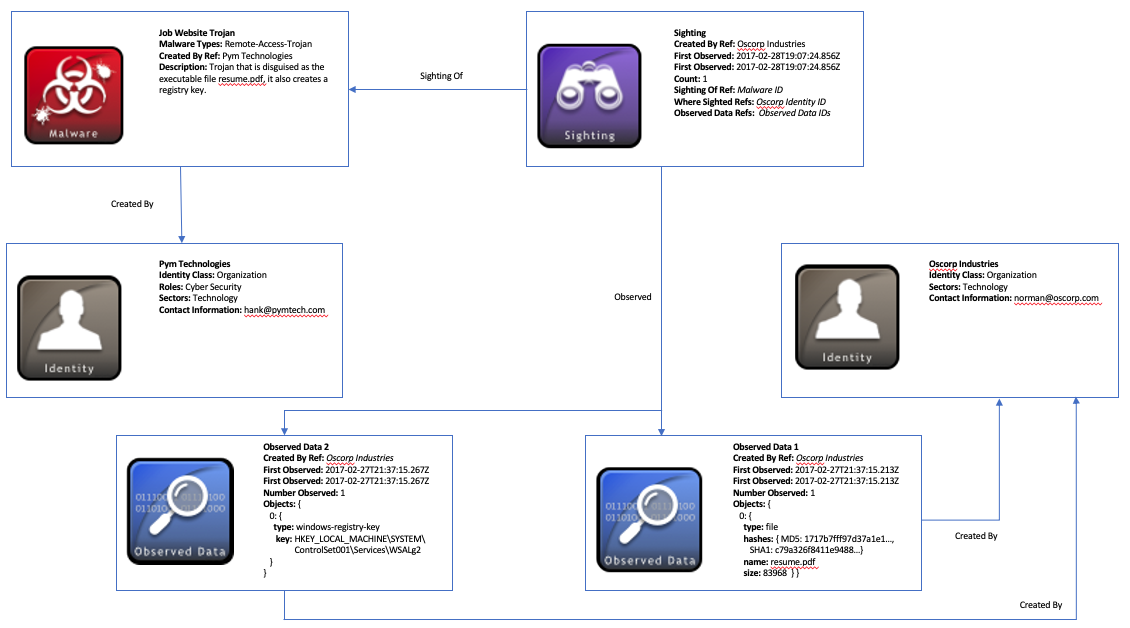
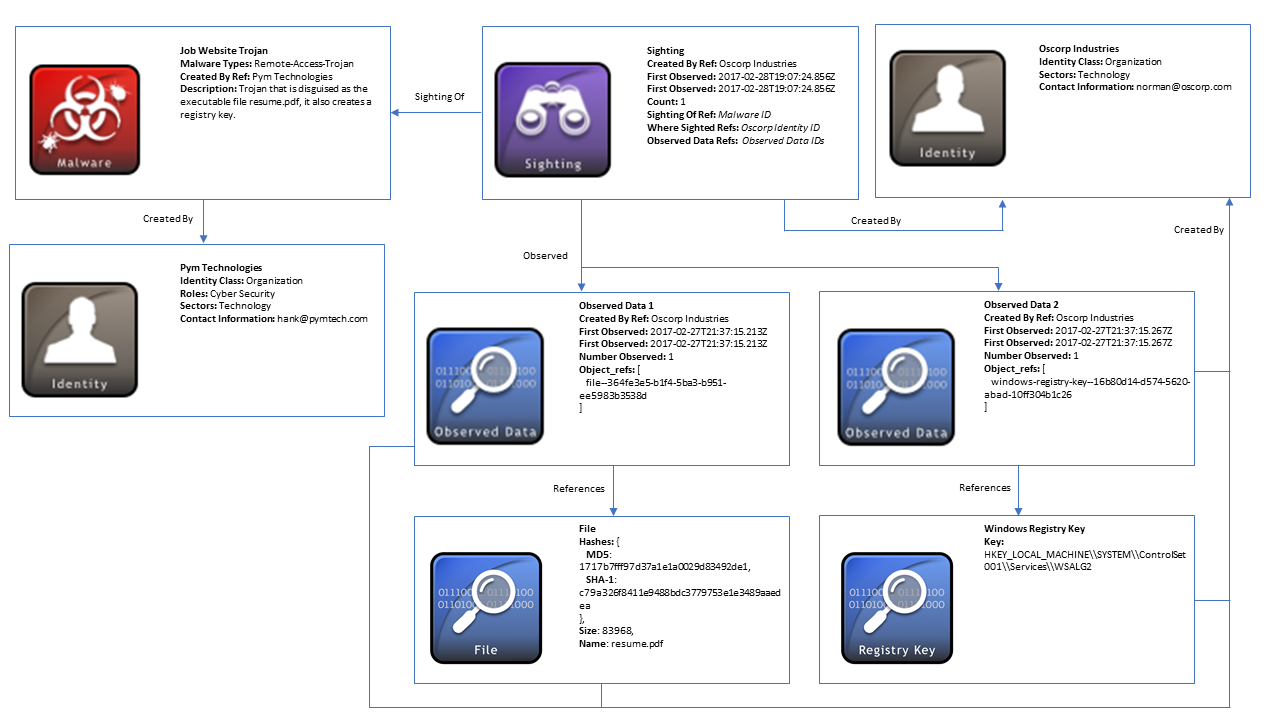
Fixes #64

diff --git a/examples/producer_python/sighting-of-observed-data-producer.py b/examples/producer_python/sighting-of-observed-data-producer.py
@@ -1,9 +1,9 @@
-from stix2.v21 import (Identity, Malware, ObservedData, Sighting, Bundle)
+from stix2.v21 import (File, Identity, Malware, ObservedData, Sighting, WindowsRegistryKey, Bundle)
 
 identityOscorp = Identity(
     id="identity--987eeee1-413a-44ac-96cc-0a8acdcc2f2c",
-    created="2017-04-14T13:07:49.812Z",
-    modified="2017-04-14T13:07:49.812Z",
+    created="2017-01-14T13:07:49.812Z",
+    modified="2017-01-14T13:07:49.812Z",
     name="Oscorp Industries",
     identity_class="organization",
     contact_information="norman@oscorp.com",
@@ -14,8 +14,8 @@ identityOscorp = Identity(
 
 identityPym = Identity(
     id="identity--7865b6d2-a4af-45c5-b582-afe5ec376c33",
-    created="2017-04-14T13:07:49.812Z",
-    modified="2017-04-14T13:07:49.812Z",
+    created="2013-04-14T13:07:49.812Z",
+    modified="2013-04-14T13:07:49.812Z",
     name="Pym Technologies",
     identity_class="organization",
     contact_information="hank@pymtech.com",
@@ -28,13 +28,24 @@ malware = Malware(
     id="malware--ae560258-a5cb-4be8-8f05-013d6712295f",
     created="2014-02-20T09:16:08.989Z",
     modified="2014-02-20T09:16:08.989Z",
-    created_by_ref="identity--7865b6d2-a4af-45c5-b582-afe5ec376c33",
+    created_by_ref=identityPym.id,
     name="Online Job Site Trojan",
     description="Trojan that is disguised as the executable file resume.pdf., it also creates a registry key.",
     malware_types=["remote-access-trojan"], 
     spec_version="2.1",
     type="malware",
     is_family="false"
+)
+
+fileMalicious = File(
+    hashes={
+        "MD5": "1717b7fff97d37a1e1a0029d83492de1",
+        "SHA-1": "c79a326f8411e9488bdc3779753e1e3489aaedea"
+    },
+    name="resume.pdf",
+    size=83968,
+    id="file--364fe3e5-b1f4-5ba3-b951-ee5983b3538d",
+    spec_version="2.1"
 )
 
 observedDataFile = ObservedData(
@@ -44,20 +55,18 @@ observedDataFile = ObservedData(
     first_observed="2017-02-27T21:37:11.213Z",
     last_observed="2017-02-27T21:37:11.213Z",
     number_observed=1,
-    created_by_ref="identity--7865b6d2-a4af-45c5-b582-afe5ec376c33",
-    objects={
-        "0": {
-            "type": "file",
-            "hashes": {
-                "MD5": "1717b7fff97d37a1e1a0029d83492de1",
-                "SHA-1": "c79a326f8411e9488bdc3779753e1e3489aaedea"
-            },
-            "name": "resume.pdf",
-            "size": 83968
-        }
-    }, 
+    created_by_ref=identityOscorp.id,
+    object_refs=[
+        "file--364fe3e5-b1f4-5ba3-b951-ee5983b3538d"
+    ], 
     spec_version="2.1",
     type="observed-data"
+)
+
+winRegKey = WindowsRegistryKey(
+    key="HKEY_LOCAL_MACHINE\\SYSTEM\\ControlSet001\\Services\\WSALG2",
+    spec_version="2.1",
+    id="windows-registry-key--16b80d14-d574-5620-abad-10ff304b1c26"
 )
 
 observedDataRegKey = ObservedData(
@@ -67,20 +76,17 @@ observedDataRegKey = ObservedData(
     first_observed="2017-02-27T21:37:11.213Z",
     last_observed="2017-02-27T21:37:11.213Z",
     number_observed=1,
-    created_by_ref="identity--7865b6d2-a4af-45c5-b582-afe5ec376c33",
-    objects={
-        "0": {
-            "type": "windows-registry-key",
-            "key": "HKEY_LOCAL_MACHINE\\SYSTEM\\ControlSet001\\Services\\WSALG2"
-        }
-    }, 
+    created_by_ref=identityOscorp.id,
+    object_refs=[
+        "windows-registry-key--16b80d14-d574-5620-abad-10ff304b1c26"
+    ], 
     spec_version="2.1",
     type="observed-data"
 )
 
 sighting = Sighting(
     id="sighting--779c4ae8-e134-4180-baa4-03141095d971",
-    created_by_ref="identity--987eeee1-413a-44ac-96cc-0a8acdcc2f2c",
+    created_by_ref=identityOscorp.id,
     created="2017-02-28T19:37:11.213Z",
     modified="2017-02-28T19:37:11.213Z",
     first_seen="2017-02-28T19:07:24.856Z",

diff --git a/examples/consumer_python/sighting-of-observed-data-consumer.py b/examples/consumer_python/sighting-of-observed-data-consumer.py
@@ -49,7 +49,7 @@ for obj in bundle.objects:
         print("First Observed: " + str(obj.first_observed))
         print("Last Observed: " + str(obj.last_observed))
         print("Number Observed: " + str(obj.number_observed))
-        print("Objects: " + str(obj.objects))
+        print("Object Refs: " + str(obj.object_refs))
 
     elif obj == observedDataRegKey:
         print("------------------")
@@ -62,7 +62,7 @@ for obj in bundle.objects:
         print("First Observed: " + str(obj.first_observed))
         print("Last Observed: " + str(obj.last_observed))
         print("Number Observed: " + str(obj.number_observed))
-        print("Objects: " + str(obj.objects))
+        print("Object Refs: " + str(obj.object_refs))
 
     elif obj == sighting:
         print("------------------")
@@ -79,3 +79,21 @@ for obj in bundle.objects:
         print("Sighting of Ref: " + obj.sighting_of_ref)
         print("Observed Data Ref: " + str(obj.observed_data_refs))
         print("Where Sighted Refs: " + str(obj.where_sighted_refs))
+    
+    elif obj == fileMalicious:
+        print("------------------")
+        print("== FILE ==")
+        print("------------------")
+        print("ID: " + obj.id)
+        print("Type: " + obj.type)
+        print("Hashes: " + str(obj.hashes))
+        print ("Name: " + obj.name)
+        print ("Size: " + str(obj.size))
+    
+    elif obj == winRegKey:
+        print("------------------")
+        print("== WINDOWS REGISTRY KEY ==")
+        print("------------------")
+        print("ID: " + obj.id)
+        print("Type: " + obj.type)
+        print("Key: " + obj.key)

diff --git a/examples/sighting-of-observed-data.md b/examples/sighting-of-observed-data.md
@@ -16,21 +16,21 @@ This scenario consists of two cyber threat companies, Pym and Oscorp, who share 
 
 In this example, there are two [Identity](https://docs.oasis-open.org/cti/stix/v2.1/cs01/stix-v2.1-cs01.html#_wh296fiwpklp) STIX Domain Objects (SDOs) used for the two companies: Pym and Oscorp. The Identity objects document relevant information about the two organizations, such as what sector they are in and relevant contact information. Both organizations are producers and consumers of STIX intelligence, so their <span class="sdo">**id**</span>’s can be referenced within objects using the <span class="sdo">**created\_by\_ref**</span> property to indicate they are the originators of the STIX objects they generate. It is worth noting that Identity SDO’s can also be used to represent individuals, attack targets, government agencies, and groups, to name a few.
 
-The Identity objects at the very minimum need a couple of required properties: <span class="sdo">**name**</span> and <span class="sdo">**identity\_class**</span>. The <span class="sdo">**identity\_class**</span> field is important for categorizing the type of identity Pym and Oscorp represent, which is <span class="values">organization</span> in this case. This value comes from the [identity class open vocabulary](https://docs.oasis-open.org/cti/stix/v2.1/cs01/stix-v2.1-cs01.html#_be1dktvcmyu), which contains suggested values for labeling Identities.
+The Identity objects at the very minimum need a value for the required <span class="sdo">**name**</span> property. In this example, the <span class="sdo">**identity\_class**</span> property is also used, and it is important for categorizing the type of identity Pym and Oscorp represen: <span class="values">organization</span>, in this case. This value comes from the [identity class open vocabulary](https://docs.oasis-open.org/cti/stix/v2.1/cs01/stix-v2.1-cs01.html#_be1dktvcmyu), which contains suggested values for labeling Identities.
 
 Pym Technologies first created a Malware SDO to represent details about the type of malware in this scenario. This specific malware type is labeled as a <span class="values">remote-access-trojan</span>, and is an executable disguised as a pdf file that creates multiple registry keys. Pym then shared this intelligence with Oscorp.
 
-Oscorp Industries, which now has this Malware object, believes it has seen this malware on its own networks and created a Sighting object to represent this. The Sighting SRO is a special type of STIX relationship that contains properties about the object seen such as the <span class="sdo">**id**</span> of the Malware SDO (with <span class="sdo">**sighting\_of\_ref**</span>), a <span class="sdo">**count**</span> property that indicates the number of times this malware was seen, as well as timestamps for when it was first and last seen. In addition, a listing of Observed-data <span class="sdo">**id**</span>’s is included to communicate any necessary information that may support the sighting of this malware.
+Oscorp Industries, which now has this Malware object, believes it has seen this malware on its own networks and created a Sighting object to represent this. The Sighting SRO is a special type of STIX relationship that contains properties about the object seen such as the <span class="sdo">**id**</span> of the Malware SDO (with <span class="sdo">**sighting\_of\_ref**</span>), a <span class="sdo">**count**</span> property that indicates the number of times this malware was seen, as well as timestamps for when it was first and last seen. In addition, a listing of Observed-Data <span class="sdo">**id**</span>s is included to communicate any necessary information that may support the sighting of this malware.
 
-[Observed Data](https://docs.oasis-open.org/cti/stix/v2.1/cs01/stix-v2.1-cs01.html#_p49j1fwoxldc) SDO’s contain cyber observable information that was captured on systems and networks such as IP addresses, files, and URL’s. In this scenario, Oscorp observed both [file](https://docs.oasis-open.org/cti/stix/v2.1/cs01/stix-v2.1-cs01.html#_99bl2dibcztv) and [registry key](https://docs.oasis-open.org/cti/stix/v2.1/cs01/stix-v2.1-cs01.html#_luvw8wjlfo3y) information. They can model this information within 2 different Observed-data objects. Although you are able to include multiple cyber observable objects within one Observed-data instance, they must be related to each other. In this case, the file and registry data are not directly related so they are contained in separate Observed-data. You can read more about STIX [objects](https://docs.oasis-open.org/cti/stix/v2.1/cs01/stix-v2.1-cs01.html#_nrhq5e9nylke) and cyber observable [objects](https://docs.oasis-open.org/cti/stix/v2.1/cs01/stix-v2.1-cs01.html#_mlbmudhl16lr) and  covered in parts 4 and 6 of the STIX 2.1 specification respectively.
+[Observed Data](https://docs.oasis-open.org/cti/stix/v2.1/cs01/stix-v2.1-cs01.html#_p49j1fwoxldc) SDO’s contain references to cyber observables (e.g. IP addresses, files, URL’s) that were captured on systems and networks. In this scenario, Oscorp observed both [file](https://docs.oasis-open.org/cti/stix/v2.1/cs01/stix-v2.1-cs01.html#_99bl2dibcztv) and [registry key](https://docs.oasis-open.org/cti/stix/v2.1/cs01/stix-v2.1-cs01.html#_luvw8wjlfo3y) information. They can model this information within 2 different Observed-Data objects. Although you are able to include references to multiple cyber observable objects within one Observed-Data instance, the cyber observables must be related to each other. In this case, the file and registry data are not directly related so their references are contained in separate Observed-Data instances. You can read more about STIX [objects](https://docs.oasis-open.org/cti/stix/v2.1/cs01/stix-v2.1-cs01.html#_nrhq5e9nylke) and cyber observable [objects](https://docs.oasis-open.org/cti/stix/v2.1/cs01/stix-v2.1-cs01.html#_mlbmudhl16lr), which are covered in parts 4 and 6 of the STIX 2.1 specification, respectively.
 
-Besides the [common properties](https://docs.oasis-open.org/cti/stix/v2.1/cs01/stix-v2.1-cs01.html#_xzbicbtscatx) universal to all objects, Observed-data’s properties are all required. So for each of these objects, Oscorp had to provide when each instance was <span class="sdo">**first\_observed**</span> and <span class="sdo">**last\_observed**</span>, as well as a count of the number of times the data was observed with the field <span class="sdo">**number\_observed**</span>. In addition, they needed to provide the actual cyber observable objects in the <span class="sdo">**objects**</span> property. The first Observed-data in this example (Observed Data 1 in the diagram below) contains information about the file that was seen. So, data like a listing of <span class="sdo">**hashes**</span>, the file’s <span class="sdo">**name**</span>, and its <span class="sdo">**size**</span> were included to represent the file. In the second Observed-data object, Oscorp models Windows Registry values such as the registry <span class="sdo">**key**</span> that the suspected malware created.
+For Observed-Data objects, either the <span class="sdo">**object\_refs**</span> (preferred) or <span class="sdo">**objects**</span> (deprecated) property must be included, and all other Observed-Data specific properties are required. So for each of these objects, Oscorp had to provide when each instance was <span class="sdo">**first\_observed**</span> and <span class="sdo">**last\_observed**</span>, as well as a count (<span class="sdo">**number\_observed**</span>) of the number of times the data was observed. In addition, they can provide references to the actual cyber observable objects in the <span class="sdo">**object\_refs**</span> property. The first Observed-Data instance in this example (Observed Data 1 in the diagram below) contains information about the file that was seen. So, data like a listing of <span class="sdo">**hashes**</span>, the file’s <span class="sdo">**name**</span>, and its <span class="sdo">**size**</span> were included to represent the file. In the second Observed-Data instance, Oscorp models Windows Registry values such as the registry <span class="sdo">**key**</span> that the suspected malware created.
 
-Finally, it is worth mentioning that none of the objects in this scenario use the standard [Relationship](https://docs.oasis-open.org/cti/stix/v2.1/cs01/stix-v2.1-cs01.html#_e2e1szrqfoan) SRO which is typically used to relate objects with one another. The Sighting SRO is used instead for the sighting of the Malware object and all other relationships in the diagram below are embedded within the objects. For instance, the Sighting object contains several embedded relationships including what was observed, who the object was created by and where the sighting was seen.
+Finally, it is worth mentioning that none of the objects in this scenario use the standard [Relationship](https://docs.oasis-open.org/cti/stix/v2.1/cs01/stix-v2.1-cs01.html#_e2e1szrqfoan) SRO which is typically used to relate objects with one another. The Sighting SRO is used instead for the sighting of the Malware object and all other relationships in the diagram below are embedded within the objects. For instance, the Sighting object contains several embedded relationships including what was observed, who the object was created by, and where the sighting was seen.
 
 A diagram of this scenario is depicted below [(An interactive version can be found here)](https://oasis-open.github.io/cti-stix-visualization/?url=https://raw.githubusercontent.com/oasis-open/cti-documentation/master/examples/example_json/sighting-of-observed-data.json){: target="_blank"}:
 
-![Sighting of Observed-data]({{ site.baseurl }}/img/Sighting-of-observed-data.PNG)
+![Sighting of Observed-data](/img/Sighting-of-observed-data.PNG)
 
 **Further Reading**
 -------------------
